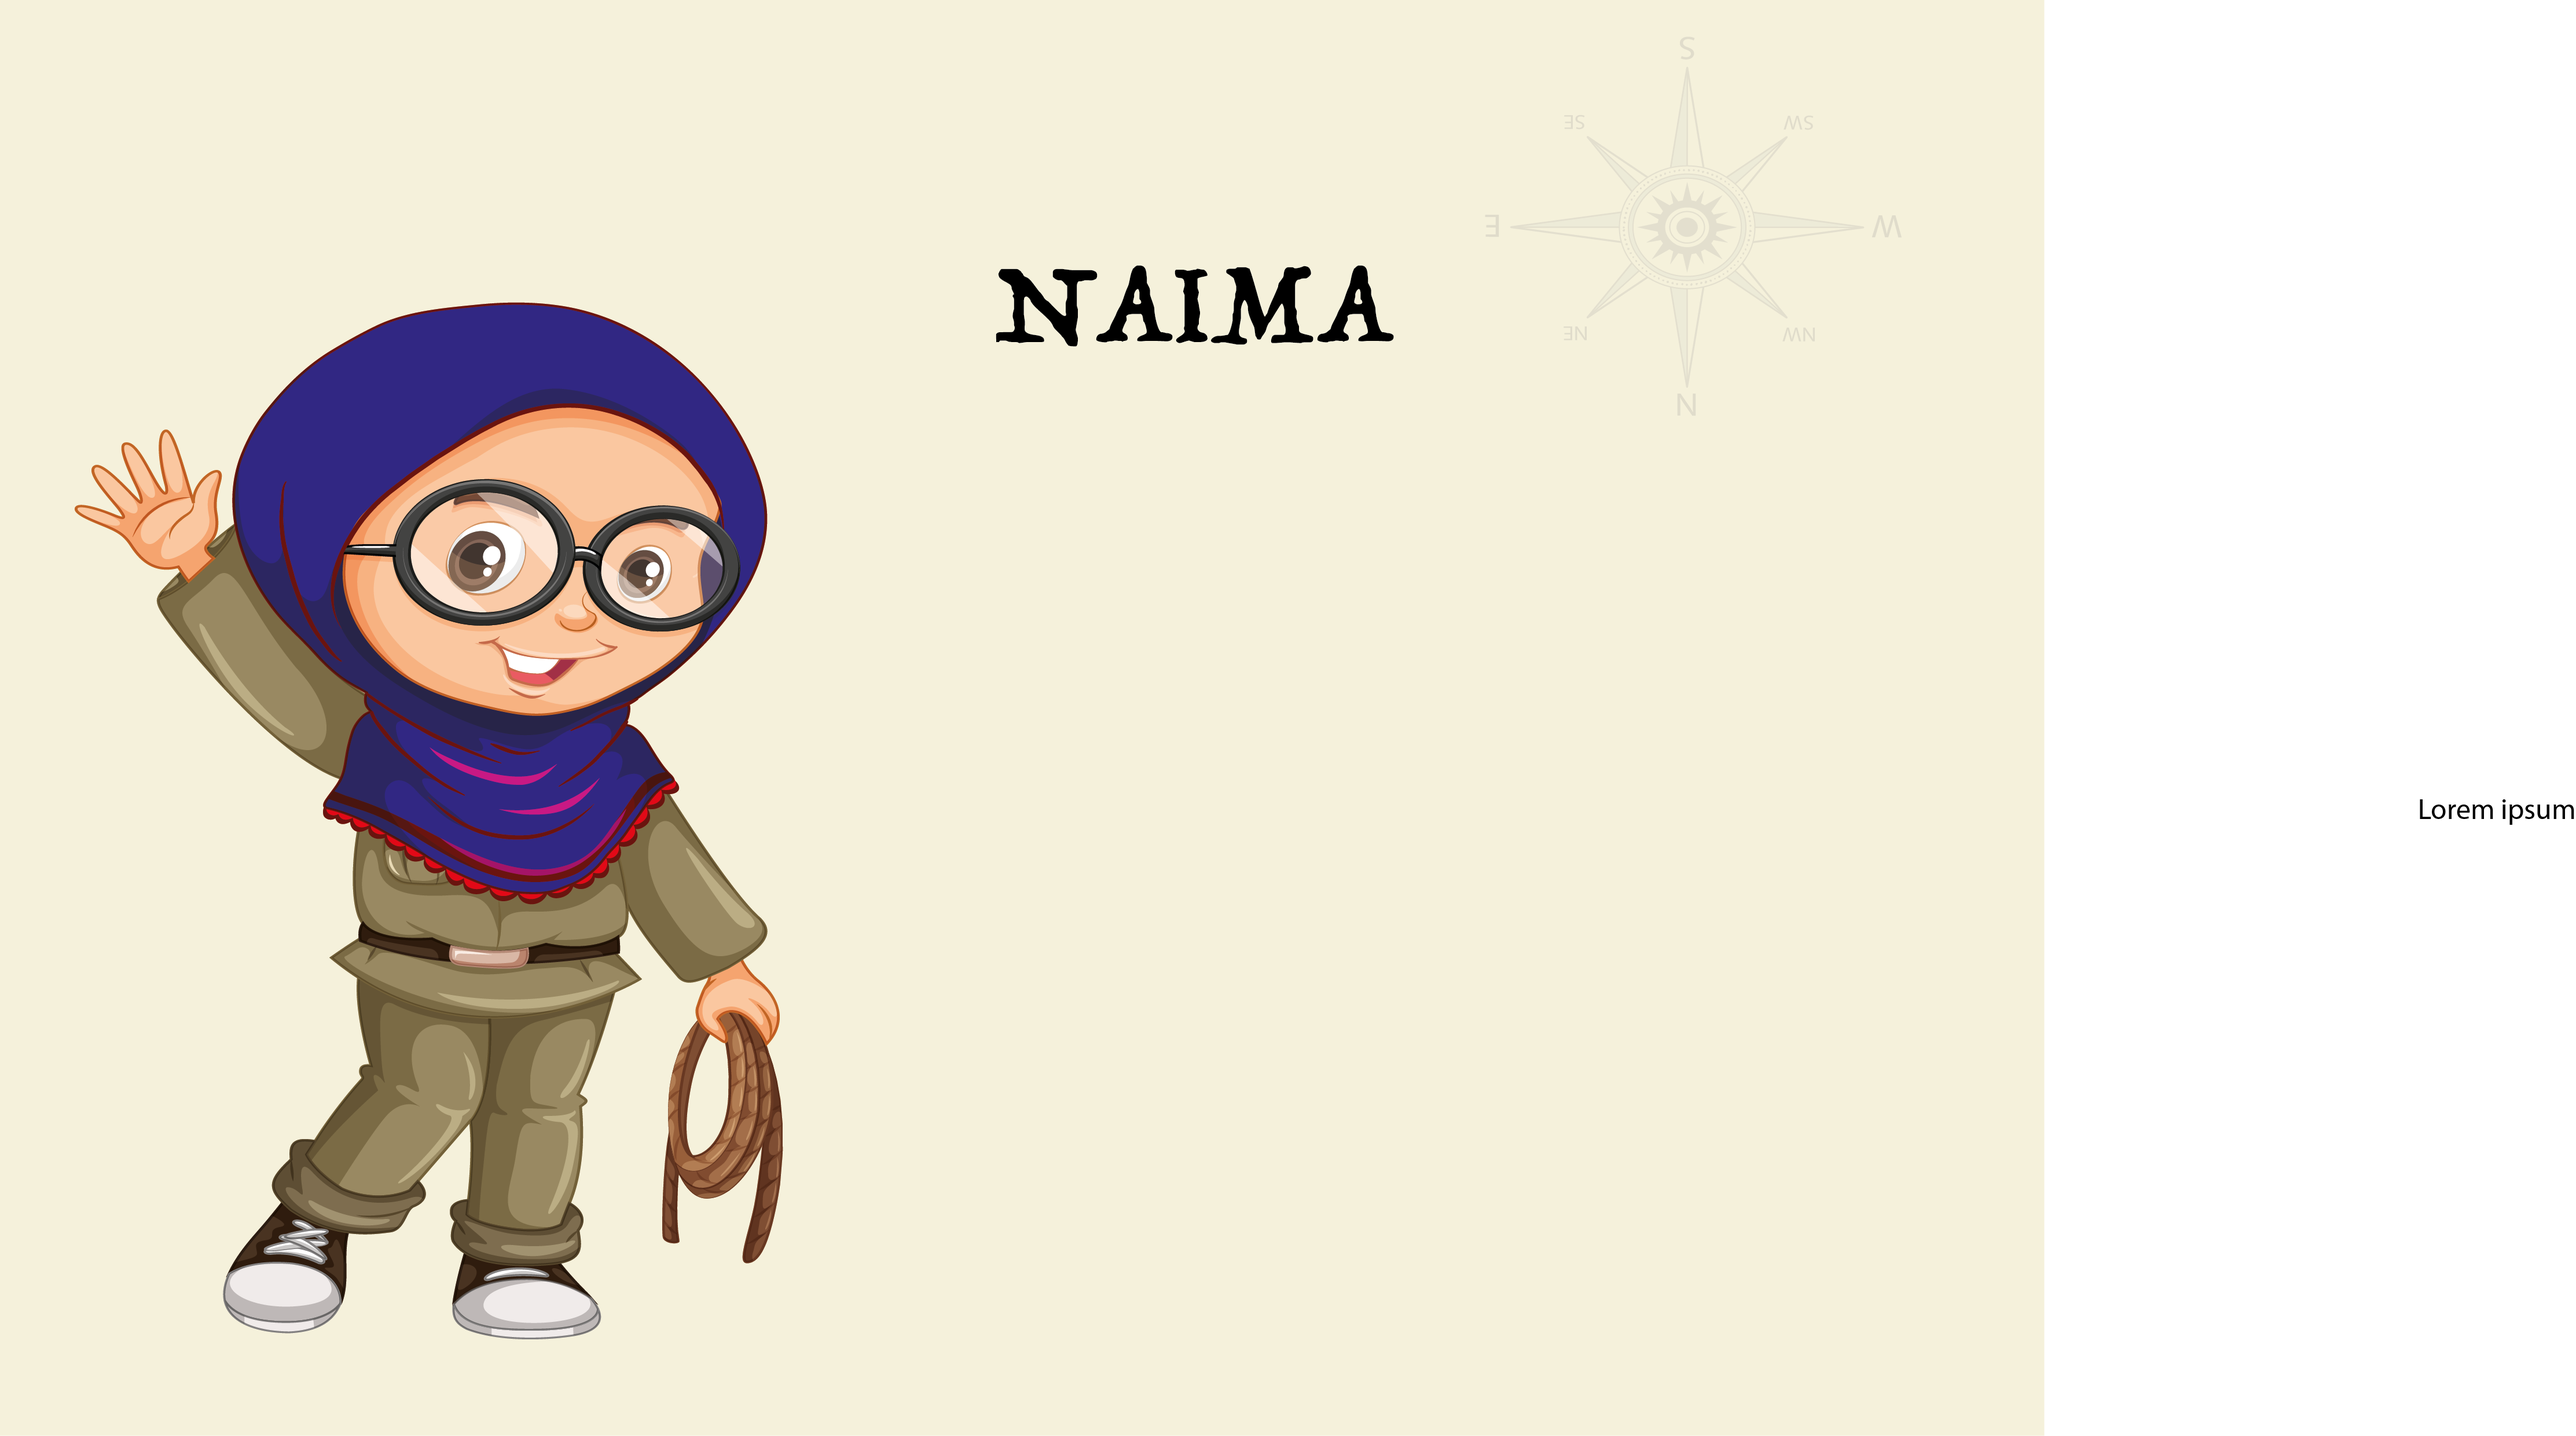
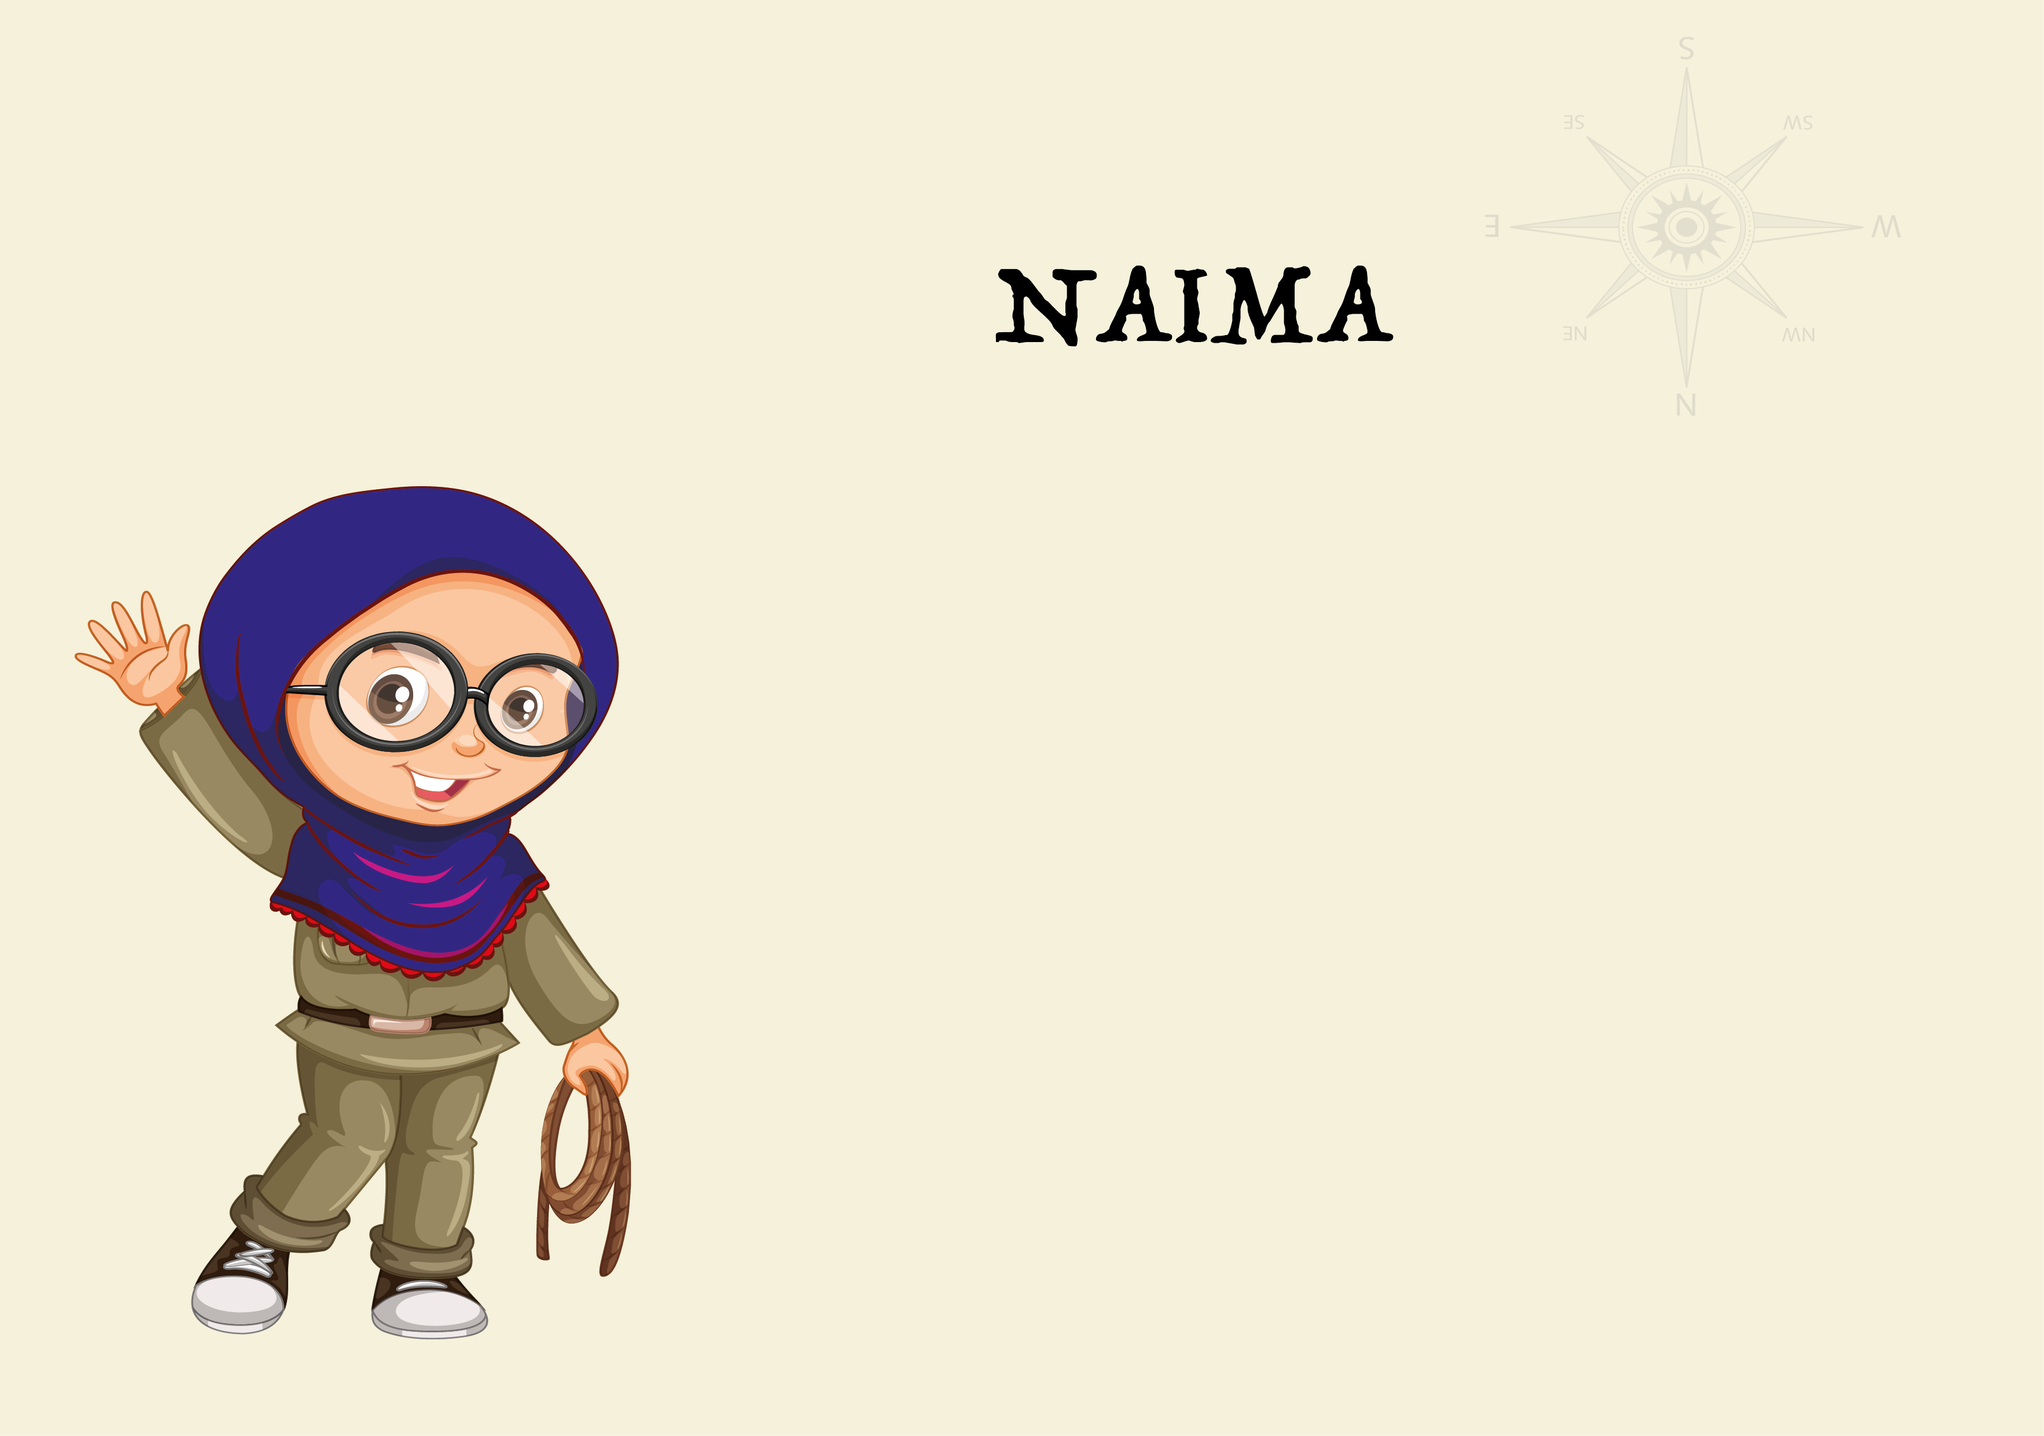
elegir personajes e introduccion

diff --git a/css/styles.css b/css/styles.css
@@ -45,6 +45,8 @@ body {
 
 .container-rules,
 .container-characters,
+.container-naima,
+.container-bernard,
 #secondbutton,
 #container-game,
 #card,
@@ -58,6 +60,19 @@ body {
 
 
 /* Game cover */
+
+.container-cover {
+    display: flex;
+    flex-direction: column;
+    justify-content: center;
+    align-items: center;
+    background-image: url('../images/papiro.jpg');
+    background-position: center center;
+    background-size: cover;
+    background-repeat: no-repeat;
+    height: 100vh;
+    width: 100vw;
+}
 
 #portada {
     width: 1000px;
@@ -90,7 +105,43 @@ body {
 
 /* Characters */
 
-#vagamundo1 {
+.container-characters {
+    flex-direction: row;
+    justify-content: space-between;
+    height: 600px;
+    width: 1000px;
+    margin: 0 auto;
+}
+
+.container-characters img {
+    height: 100%;
+    width: auto;
+    margin: 0 20px;
+    transition: all .5s ease;
+}
+
+.container-characters img:hover {
+    transform: scale(1.2);
+    cursor: pointer;
+}
+
+#bernard-char {
+    height: 80%;
+    margin-top: 70px;
+}
+
+.container-naima,
+.container-bernard {
+    width: 1000px;
+    height: 600px;
+    margin: 0 auto;
+    flex-direction: column;
+    justify-content: center;
+    align-items: center;
+}
+
+#naima,
+#bernard {
     height: 100%;
 }
 
@@ -140,6 +191,8 @@ body {
 }
 
 #card h2 {
+    display: inline-block;
+    width: 80%;
     color: black;
     font-size: 2rem;
 }
@@ -147,12 +200,14 @@ body {
 .answer-btn {
     font-family: "Special Elite";
     max-height: 70px;
-    width: 150px;
+    width: 170px;
     margin: 0 10px;
     padding: 20px;
     background-color: #b07f48;
     color: white;
     font-size: 1.3rem;
+    border-radius: 10px;
+    border: none;
 }
 
 .answer-btn:hover {

diff --git a/index.html b/index.html
@@ -14,7 +14,7 @@
     <!-- COVER PAGE -->
 
     <div class="container-cover">
-        <img id="portada" src="images/first.png" alt="cover">
+        <img id="portada" src="images/vagamundo.png" alt="cover">
         <button class="btn" id="startbutton">¡VAMOS!</button>
 
     </div>
@@ -25,14 +25,24 @@
         <img id="introduction" src="images/introduction.png" alt="vagamundo">
         <div id="maquina-de-escribir"></div>
         <button class="btn" id="instructionsbutton">INSTRUCCIONES</button>
-        <button class="btn" id="secondbutton">ELEGI TU VIAJERO</button>
+        <button class="btn" id="secondbutton">ELEGI TU VIAJER@</button>
     </div>
 
     <!-- CHARACTERS -->
 
     <div class="container-characters">
-        <img id="vagamundo1" src="images/naimatarjeta.png" alt="vagamundo">
-        <button class="btn" id="thirdbutton">AL FIN DEL MUNDO</button>
+        <img id="naima-char" src="images/naima.png" alt="Naima">
+        <img id="bernard-char" src="images/Bernard.png" alt="Bernard">
+    </div>
+
+    <div class="container-naima">
+        <img id="naima" src="images/naimatarjeta.png" alt="Naima">
+        <button class="btn" id="thirdbutton">VIAJAR CON NAIMA</button>
+    </div>
+
+    <div class="container-bernard">
+        <img id="bernard" src="images/bernardtarjeta.png" alt="Bernard">
+        <button class="btn" id="bernardbutton">VIAJAR CON BERNARD</button>
     </div>
 
     <!-- GAME -->
@@ -73,7 +83,7 @@
         <div id="objects-outside-canvas">
             <!-- Lives -->
 
-            <p>Vidas:</p>
+            <p>Brújulas:</p>
             <div id="lives">
                 <img src="images/brujulavida.png" alt="">
                 <img src="images/brujulavida.png" alt="">

diff --git a/js/canvas.js b/js/canvas.js
@@ -4,13 +4,18 @@ const $canvas = document.querySelector('#canvas')
 const ctx = $canvas.getContext('2d')
 
 const $body = document.querySelector('body')
-const $button = document.querySelector(`#startbutton`)
+const $startButton = document.querySelector(`#startbutton`)
 const $cover = document.querySelector(`.container-cover`)
 const $secondButton = document.querySelector(`#secondbutton`)
 const $rules = document.querySelector(`.container-rules`)
 const $instructionsButton = document.querySelector('#instructionsbutton')
 const $thirdButton = document.querySelector(`#thirdbutton`)
 const $players = document.querySelector(`.container-characters`)
+const $naima = document.querySelector('#naima-char')
+const $bernard = document.querySelector('#bernard-char')
+const $containerNaima = document.querySelector('.container-naima')
+const $containerBernard = document.querySelector('.container-bernard')
+const $bernardButton = document.querySelector('#bernardbutton')
 const $containerGame = document.querySelector(`#container-game`)
 const texto = "Con una superficie de más de 43 316 000 km², es la segunda masa de tierra más grande del globo, cubriendo el 8 % de la superficie total del planeta y el 28,4 % de la tierra emergida, y además concentrando cerca del 12,5 % de la población humana. Debido a su gran tamaño y sus características geográficas, en algunas culturas, América se divide tradicionalmente en América del Norte, América Central, y América del Sur.";
 const texto2 = `Inspirad@s en historias de aventurer@s, nuestr@s vagamund@s quieren recorrer el continente americano y finalizar su periplo en el "fin del mundo". ¿Te animas a ayudarl@s? Sólo necesitan saber las capitales.`

diff --git a/js/index.js b/js/index.js
@@ -15,15 +15,20 @@ $level.innerHTML = level
 let backgroundCanvas = '#3b8ec3'
 let background = new Map()
 let card
-let imgTraveller1 = '../images/personajenaima.png'
-let traveller = new Traveller(imgTraveller1)
+const imgNaima = `../images/personajenaima.png`
+const imgBernard = `../images/Bernard.png`
+let traveller
+
 
 // Events for the first sections
 
-$button.onclick = changeSection
+$startButton.onclick = changeSection
 $instructionsButton.onclick = showInstructions
 $secondButton.onclick = changeSection2
 $thirdButton.onclick = changeSection3
+$bernardButton.onclick = changeSection3
+$naima.onclick = naimaCard
+$bernard.onclick = bernardCard
 
 function changeSection() {
     $cover.style.display = `none`
@@ -44,9 +49,23 @@ function changeSection2() {
     $players.style.display = `flex`
 }
 
-function changeSection3() {
+function naimaCard() {
     $players.style.display = `none`
+    $containerNaima.style.display = 'flex'
+    traveller = new Traveller(imgNaima)
+}
+
+function bernardCard() {
+    $players.style.display = `none`
+    $containerBernard.style.display = 'flex'
+    traveller = new Traveller(imgBernard)
+}
+
+function changeSection3() {
+    $containerNaima.style.display = 'none'
+    $containerBernard.style.display = 'none'
     $containerGame.style.display = 'flex'
+    start()
     newCard(countries[0])
 
 }
@@ -205,7 +224,7 @@ function tryAgain() {
 
 // Start game
 
-window.onload = start
+// window.onload = 
 
 // Try again event
 

diff --git a/js/countries.js b/js/countries.js
@@ -65,7 +65,7 @@ let countries = [{
     capital: 'Saint John',
     level: 2,
     x: -1630,
-    y: -490
+    y: -470
 }, {
     name: 'Dominica',
     capital: 'Roseau',
